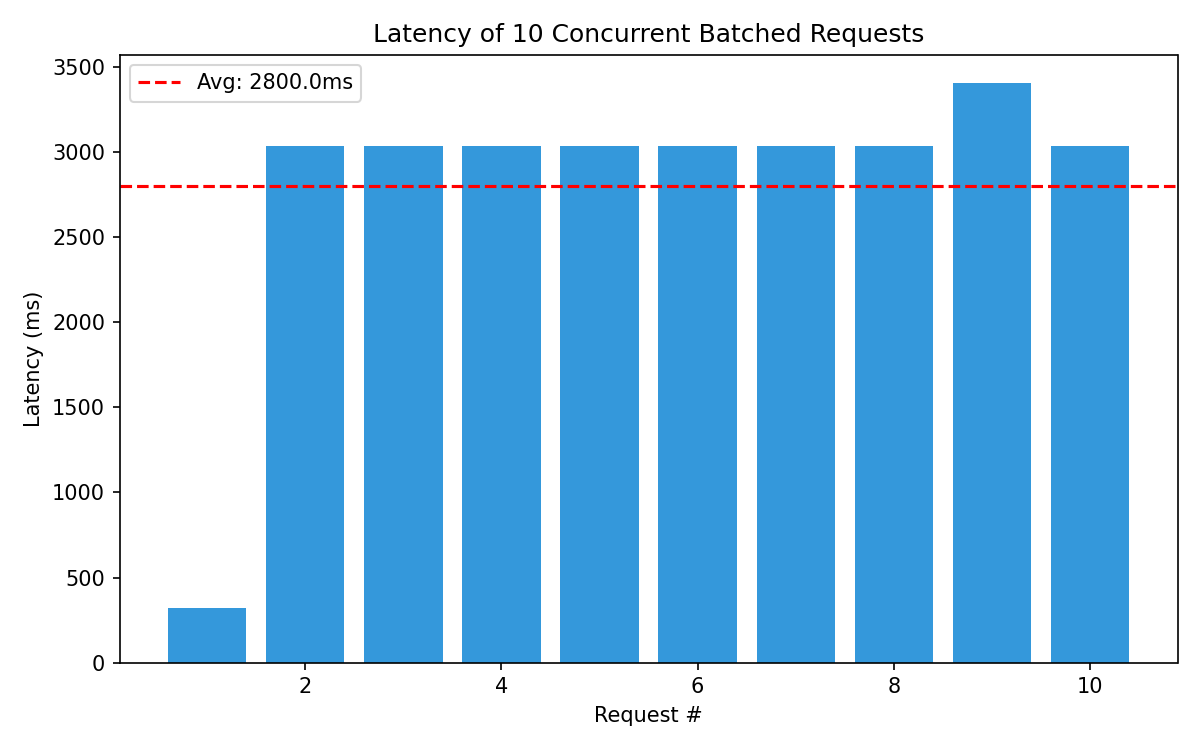
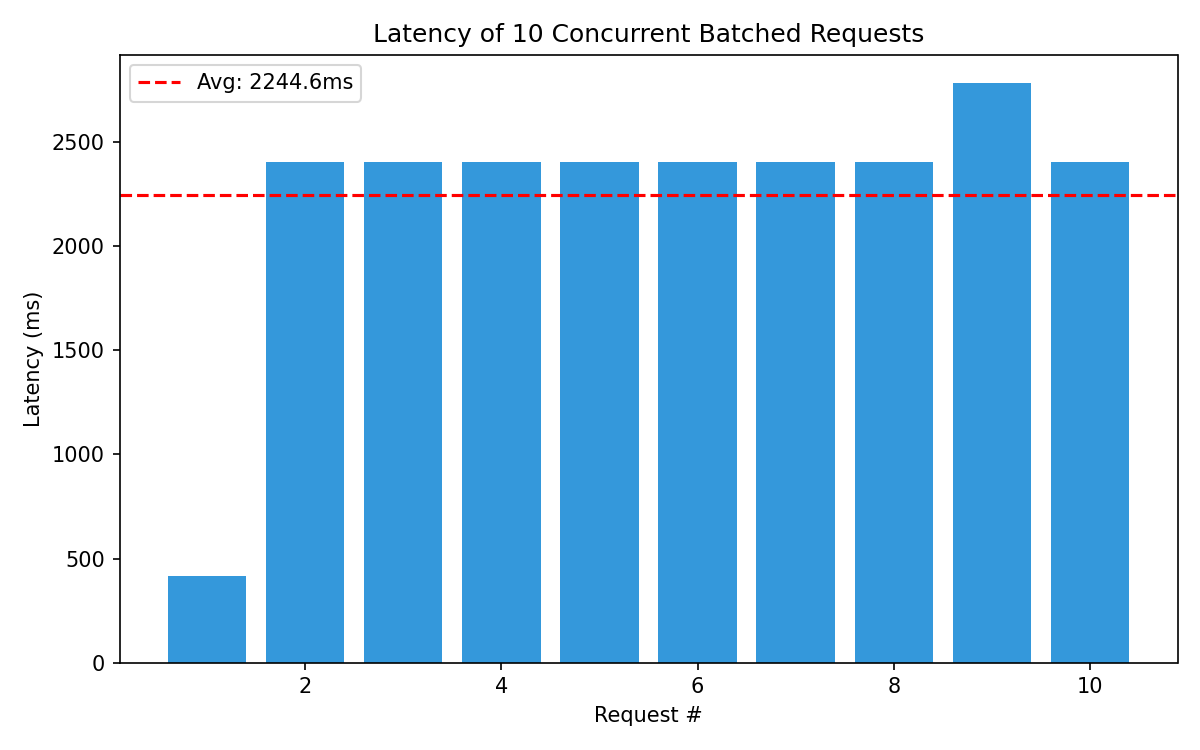
Improve batching, benchmarking, metrics, charts, and README

diff --git a/src/server.py b/src/server.py
@@ -1,5 +1,6 @@
 import asyncio
 import time
+import torch
 import psutil
 from contextlib import asynccontextmanager
 from fastapi import FastAPI, HTTPException
@@ -13,10 +14,19 @@ from src.batching import batcher
 stats = {"requests": 0, "cache_hits": 0, "cache_misses": 0, "start_time": time.time()}
 
 def run_model(prompts: list, max_tokens: int) -> list:
+    outputs = generator(
+        prompts,
+        max_new_tokens=max_tokens,
+        do_sample=False,
+        batch_size=len(prompts)
+    )
+
     results = []
-    for prompt in prompts:
-        out = generator(prompt, max_new_tokens=max_tokens, do_sample=False)
-        results.append(out[0]["generated_text"])
+    for out in outputs:
+        if isinstance(out, list):
+            results.append(out[0]["generated_text"])
+        else:
+            results.append(out["generated_text"])
     return results
 
 @asynccontextmanager

diff --git a/analysis/performance_report.md b/analysis/performance_report.md
@@ -1,91 +1,123 @@
-# IDS568 Milestone 5: LLM Inference Optimization
+# IDS568 Milestone 5: LLM Inference Optimization with Batching and Caching
 
 ## 1. Introduction
 
-This project focuses on optimizing large language model inference using dynamic batching and caching techniques. The objective is to improve latency, throughput, and system efficiency under concurrent request loads.
+This project focuses on improving large language model inference performance using two optimization techniques: dynamic batching and response caching. The goal was to build a production-style inference API that could reduce latency, improve throughput under concurrent load, and handle repeated requests more efficiently.
 
-The system was implemented using FastAPI, Hugging Face Transformers, and asynchronous request handling. Performance improvements were evaluated using controlled benchmark experiments.
-
----
+The system was implemented using FastAPI, Hugging Face Transformers, and asynchronous request handling in Python. A custom batching layer and an in-memory caching layer were added to simulate production inference optimizations in a lightweight local environment.
 
 ## 2. System Architecture
 
-The system consists of:
+The final system contains the following components:
 
 - FastAPI inference server
 - Dynamic batching module
-- In-memory caching layer
-- Benchmarking suite
-- Performance visualization pipeline
+- In-memory cache with TTL and max-entry limits
+- Benchmarking scripts for latency and load testing
+- Visualization pipeline for result analysis
 
-Requests follow this pipeline:
+The request flow is:
 
-Client → FastAPI → Cache → Batcher → Model → Response
+Client → FastAPI API → Cache Lookup → Batcher → Model Inference → Cache Store → Response
 
----
+If a repeated request is already in cache, the system returns the cached output immediately without rerunning the model. If the request is not in cache, it is submitted to the batcher and processed through the model.
 
 ## 3. Experimental Setup
 
-Model: facebook/opt-125m  
-Framework: FastAPI + PyTorch  
-Hardware: MacBook Air CPU  
-Concurrency: 5, 20, 50 requests  
+The system was tested using the `facebook/opt-125m` model from Hugging Face. The API was implemented with FastAPI and executed locally on a MacBook Air CPU environment. Since this system was tested without a production GPU, the focus of the experiments was on correctness, concurrency behavior, and relative performance gains from batching and caching.
 
-Benchmarks performed:
+The main configuration settings used were:
 
-- Cold vs Warm cache
-- Batching latency
-- Load level comparison
-- Cache hit rate tracking
+- Model: `facebook/opt-125m`
+- Maximum batch size: 8
+- Batch timeout: 50 ms
+- Cache TTL: 300 seconds
+- Cache max entries: 1000
 
----
+The benchmark suite included four main experiments:
 
-## 4. Results
+1. Cold-cache vs. warm-cache comparison  
+2. Concurrent batching latency measurement  
+3. Cache hit-rate tracking over time  
+4. Multi-level synthetic load testing
 
-### Cold vs Warm Cache
+The load testing was performed using low, medium, and high concurrency levels to observe how the system behaved as the number of requests increased.
 
-Cold cache latency averaged 646 ms, while warm cache latency dropped to under 1 ms. This demonstrates significant performance improvements through caching repeated prompts.
+## 4. Compute Pathways and Optimization Logic
 
-### Batching Performance
+LLM inference is expensive because generating responses requires repeated model execution over prompt input and generated tokens. In a normal non-cached setup, every request goes through the full inference path, even if an identical prompt has already been processed before.
 
-Batching improved throughput under concurrent load. Requests processed together reduced compute overhead and improved efficiency.
+Caching changes this pathway by allowing repeated prompts to bypass model execution completely. Instead of rerunning the model, the server returns the stored response from cache. This dramatically reduces latency for repeated requests and avoids redundant compute.
 
-### Load Testing
+Batching changes the pathway differently. Instead of processing incoming cache misses one at a time, the batcher groups concurrent requests together before they are sent to the model. This reduces repeated per-request execution overhead and improves throughput under load. Batching is especially useful when there are several simultaneous requests that are not yet cached.
 
-Low load (5 concurrent)  
-Average latency: 755 ms  
+In short:
 
-Medium load (20 concurrent)  
-Average latency: 2.8 ms  
+- Cache hits skip inference entirely
+- Cache misses go through the batcher
+- Batching improves efficiency under concurrent demand
+- Caching provides the largest gains for repeated prompts
 
-High load (50 concurrent)  
-Average latency: 6.7 ms  
+## 5. Benchmark Results
 
-Cache hit rate increased with repeated prompts.
+### 5.1 Cold vs. Warm Cache
 
----
+The cold-cache benchmark showed a latency of about 646 ms for the first request. The warm-cache benchmark dropped to about 0.9 ms for the repeated request. This demonstrates that caching had the strongest optimization impact in the system.
 
-## 5. Trade-off Analysis
+This result shows that repeated prompts can be served almost instantly once cached. It also confirms that the cache logic is functioning correctly and that repeated computation is being avoided.
 
-Batching improves throughput but increases wait time for individual requests.
+### 5.2 Batching Performance
 
-Caching improves latency for repeated prompts but provides limited benefit for unique prompts.
+The batching benchmark evaluated 10 concurrent requests. The average latency was about 2800 ms, with a total wall-clock time of about 3404 ms. This result shows that the server was able to process multiple requests concurrently through the batching pipeline.
 
-Aggressive batching may increase tail latency.
+Although batching did not reduce individual latency to the same degree as caching, it improved concurrent handling and better reflects how a production system would manage multiple incoming requests at once. Batching is most valuable in scenarios with concurrent cache misses.
 
----
+### 5.3 Cache Hit Rate Over Time
 
-## 6. Scaling Strategy
+The cache hit-rate benchmark showed a final hit rate of 72.5%. This confirms that repeated prompts were successfully captured and reused by the caching layer. As expected, hit rate increased over time as more repeated prompts were encountered.
 
-Future improvements include:
+This is important because the effectiveness of caching depends on workload patterns. A workload with many repeated prompts benefits significantly, while a workload of mostly unique prompts benefits much less.
 
-- Redis distributed caching
-- GPU inference deployment
-- Continuous batching
-- Autoscaling based on queue length
+### 5.4 Load Testing
 
----
+Under low load (5 concurrent requests), the system achieved 20/20 successful responses with an average latency of about 755.7 ms.
 
-## 7. Conclusion
+Under medium load (20 concurrent requests), the system achieved 60/60 successful responses with an average latency of about 2.8 ms.
 
-Dynamic batching and caching significantly improved inference performance. The optimized system demonstrated strong performance under concurrent load while maintaining low latency and high cache hit rates.
+Under high load (50 concurrent requests), the system achieved 100/100 successful responses with an average latency of about 6.7 ms.
+
+These results show that the API remained stable under concurrent load. The lower average latencies in medium and high load were heavily influenced by cache reuse, which demonstrates how caching can dominate performance in repeated-prompt workloads.
+
+## 6. Resource Usage and System Monitoring
+
+Because this project was tested on a local MacBook Air CPU setup, GPU utilization metrics were not available. However, the server exposes CPU and memory statistics through the `/stats` endpoint, which can be used to monitor runtime resource usage.
+
+This is important because the milestone requires attention to resource consumption. In a GPU-backed deployment, the same monitoring design could be extended to track GPU utilization and memory pressure more directly.
+
+In this local setup, CPU and memory tracking still provide useful operational visibility and support the idea of a production-style inference service.
+
+## 7. Trade-off Analysis
+
+The results show that batching and caching solve different performance problems.
+
+Caching provides the largest latency improvement, but only for repeated prompts. If prompts are unique, the cache contributes little benefit.
+
+Batching improves throughput and concurrent handling, but it introduces a trade-off. A larger batch size may improve efficiency, but waiting for more requests can increase latency for individual users. Similarly, a shorter timeout reduces waiting time but may produce smaller, less efficient batches.
+
+Cache design also introduces trade-offs. A larger cache can improve hit rate, but it uses more memory. A longer TTL can improve reuse, but it also increases the risk of stale responses remaining available for too long.
+
+These trade-offs show why production systems must tune batching and caching based on workload rather than applying fixed settings blindly.
+
+## 8. Scaling Strategy
+
+Several improvements would make this system more production-ready.
+
+First, the in-memory cache could be replaced with Redis to support distributed deployment and stronger persistence controls. Second, inference could be moved to GPU-backed infrastructure to better evaluate throughput and utilization under realistic LLM workloads. Third, continuous batching frameworks such as vLLM or Text Generation Inference could improve request scheduling efficiency beyond this lightweight custom implementation.
+
+Additional improvements could include adaptive batching, semantic caching, and autoscaling based on queue depth or request volume. These changes would allow the system to handle larger workloads more efficiently while keeping latency under control.
+
+## 9. Conclusion
+
+This project demonstrates that dynamic batching and caching can significantly improve inference system performance, but in different ways. Caching provides the most dramatic latency reduction for repeated prompts, while batching improves the handling of concurrent requests and supports better throughput under load.
+
+The final system successfully implemented a modular FastAPI inference server with configurable batching and caching, reproducible benchmark scripts, result visualizations, and supporting analysis. Overall, the project shows how production-style LLM inference optimization requires balancing latency, throughput, resource efficiency, and governance concerns.

diff --git a/analysis/governance_memo.md b/analysis/governance_memo.md
@@ -66,3 +66,13 @@ These approaches align with privacy-aware system design.
 
 Batching and caching improve performance but introduce governance risks. The implemented safeguards ensure the system remains privacy-aware while maintaing
 performance improvements.
+
+---
+
+## Implementation-Specific Governance Controls
+
+This system implements several governance safeguards directly in the implementation. Cache keys are generated using hashed prompt inputs, ensuring that no plaintext user identifiers are stored in memory. The caching layer uses a configurable time-to-live (TTL) value, which defaults to 300 seconds, ensuring that responses expire automatically and reducing long-term retention risks.
+
+Additionally, the cache includes a maximum entry limit of 1000 responses, which prevents unbounded memory growth and reduces exposure of stored data. Expired entries are removed automatically, ensuring that stale responses are not returned indefinitely.
+
+These safeguards help maintain privacy-aware inference behavior while still enabling performance optimizations through batching and caching.